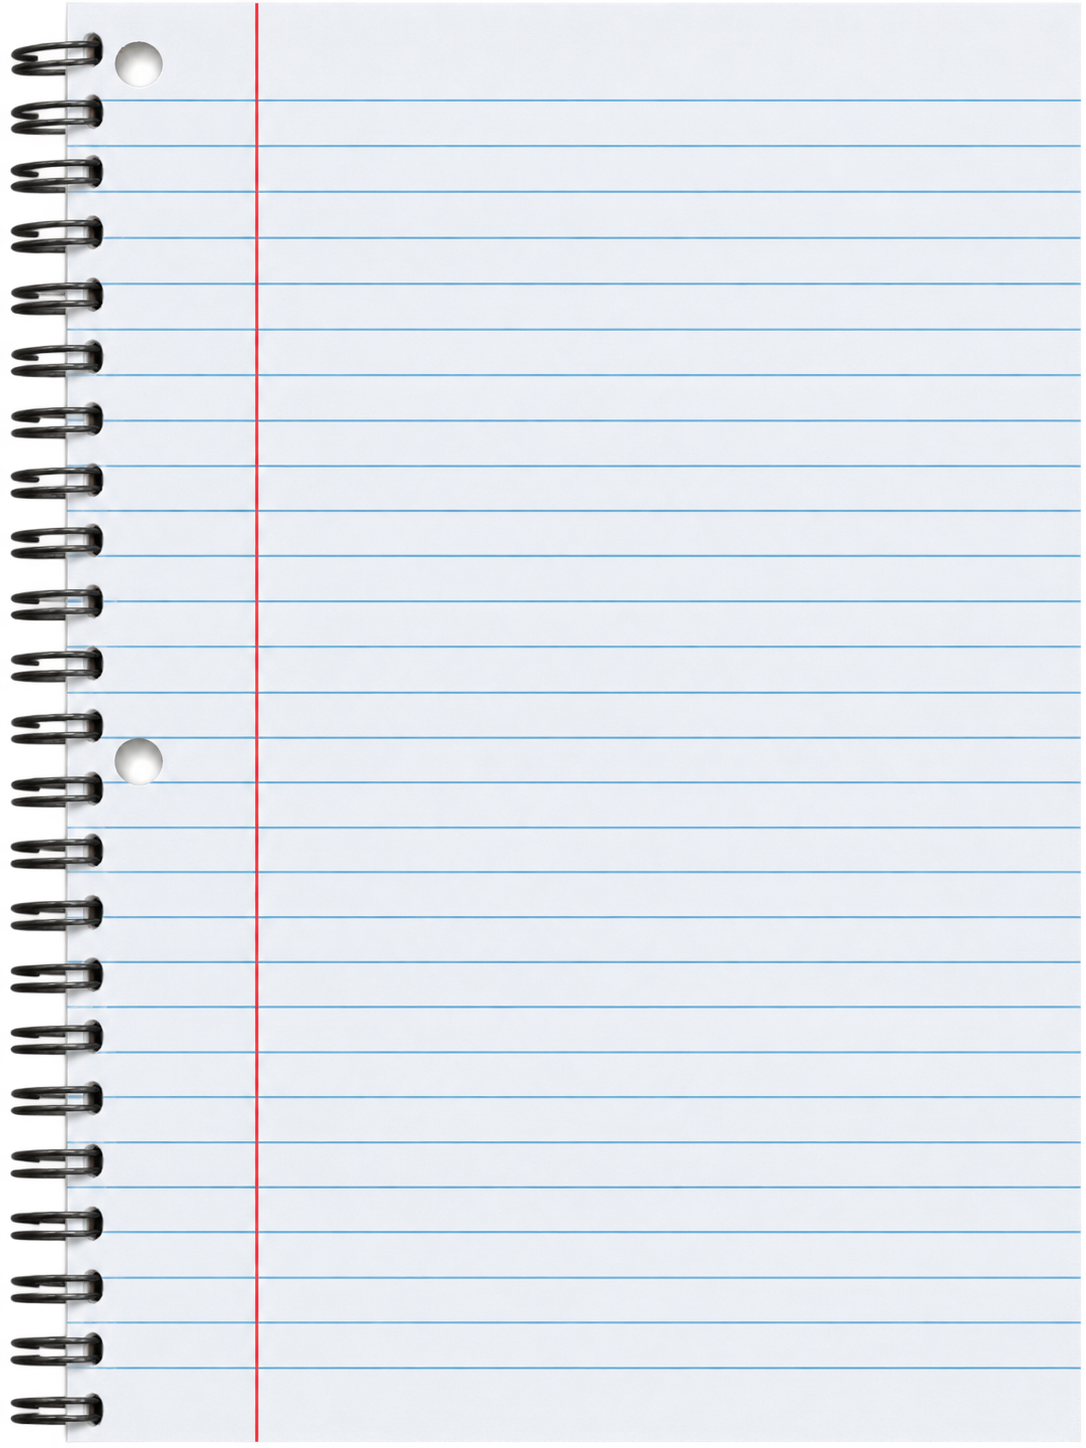
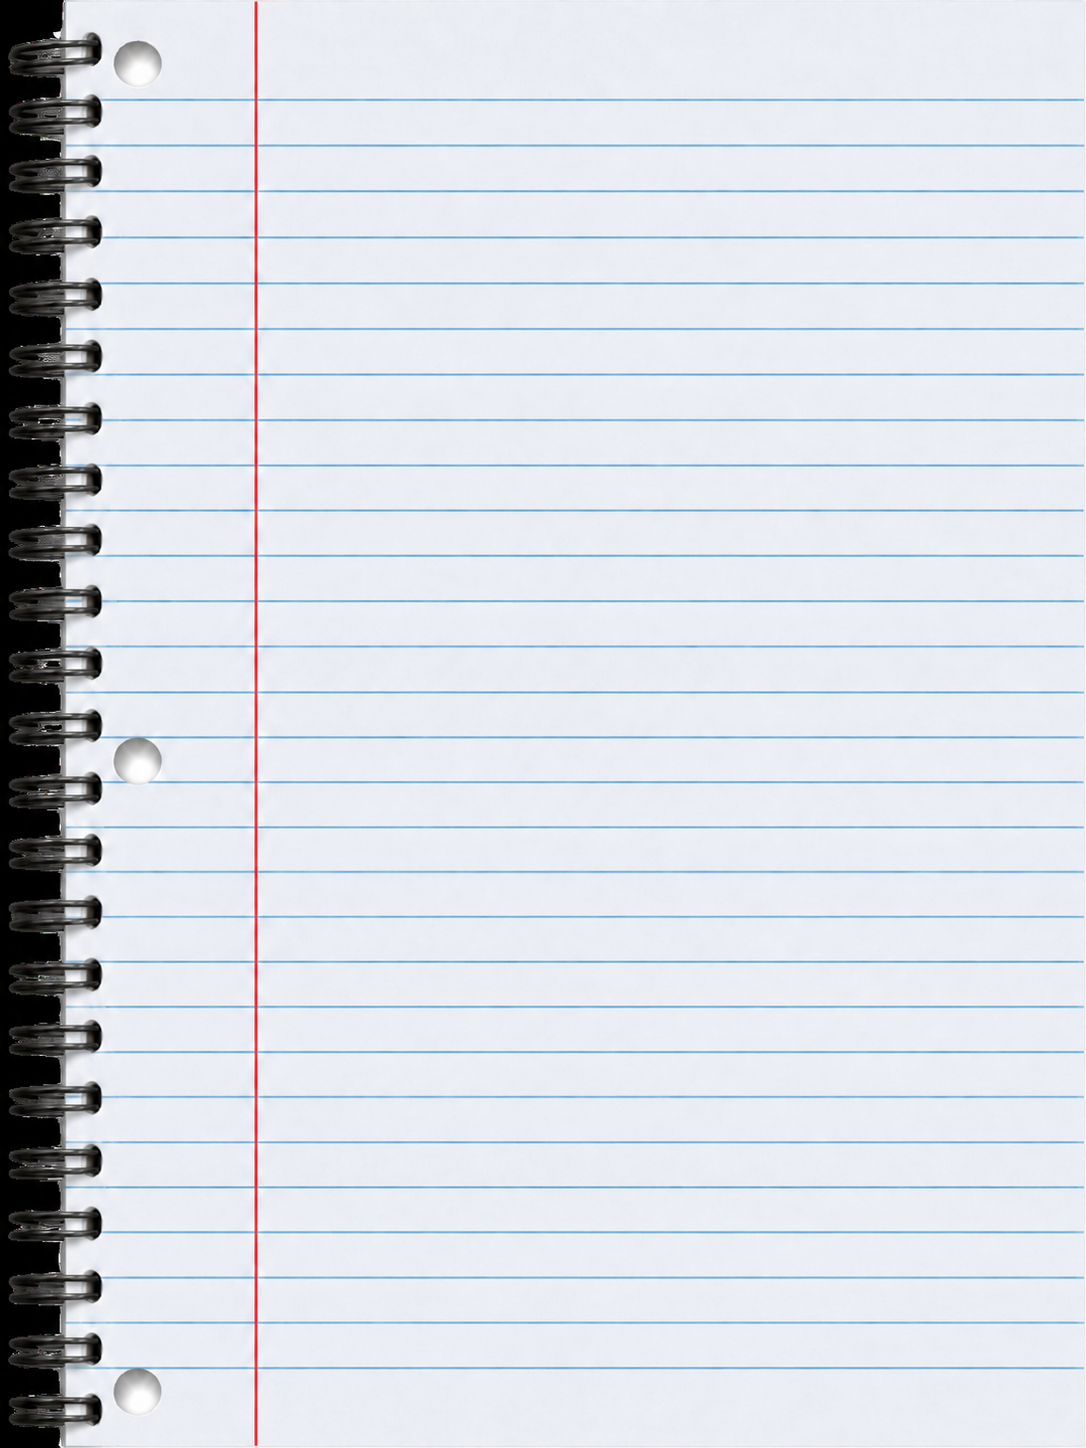
binder: remove the pseudo-hyperlink underline from menu/meal names

Changed region(s): [[0.0, 0.0, 1.0, 1.0], [0.9724, 0.0622, 1.0, 0.0932]]

diff --git a/src/app/components/meal-binder/meal-binder.scss b/src/app/components/meal-binder/meal-binder.scss
@@ -38,7 +38,7 @@
   // Extra left gutter clears the spiral binding so the coils show; the right
   // side is trimmed tight to keep the content width. +3px so tabs/cards don't
   // touch the spiral.
-  padding: 0 2px 0 31px;
+  padding: 0 2px 0 34px;
   // SERIF body for the Binder — Calisto MT (elegant transitional serif on Windows/
   // Office), with graceful Palatino/Georgia fallbacks elsewhere. No webfont (CSP-
   // safe). Tabs, the "Binder" title, and the controls override this back to sans.
@@ -840,13 +840,13 @@
 .menu-grip {
   flex: 0 0 auto;
   box-sizing: border-box;
-  width: 30px;
-  height: 30px;
+  width: 32px;
+  height: 32px;
   display: inline-flex;
   align-items: center;
   justify-content: center;
-  font-size: 20px; // glyph sits inside the box
-  line-height: 20px;
+  font-size: 22px; // glyph sits inside the box
+  line-height: 22px;
   color: #3b7de0; // the Menus-tab blue
   border: 2px solid #3b7de0;
   border-radius: 4px;
@@ -866,8 +866,8 @@
   // padding. Empty variant is a muted placeholder square.
   .card-thumb {
     flex: 0 0 auto;
-    width: 30px;
-    height: 30px;
+    width: 32px;
+    height: 32px;
     box-sizing: border-box;
     border-radius: 4px;
     border: 2px solid #3b7de0; // blue frame at rest (turns yellow on press/select)
@@ -898,11 +898,7 @@
     font-size: 16px; // one size bigger
     font-weight: 400; // NOT bold — Calisto reads elegant at regular weight
     color: #1a1a1a; // black text on the see-through white card
-    // Blue hyperlink-style underline (standard blue) — reads as a grabbable link.
-    text-decoration: underline;
-    text-decoration-color: #4da6ff;
-    text-decoration-thickness: 1px;
-    text-underline-offset: 2px;
+    text-decoration: none; // no pseudo-hyperlink underline
     white-space: nowrap;
     overflow: hidden;
     text-overflow: ellipsis;
